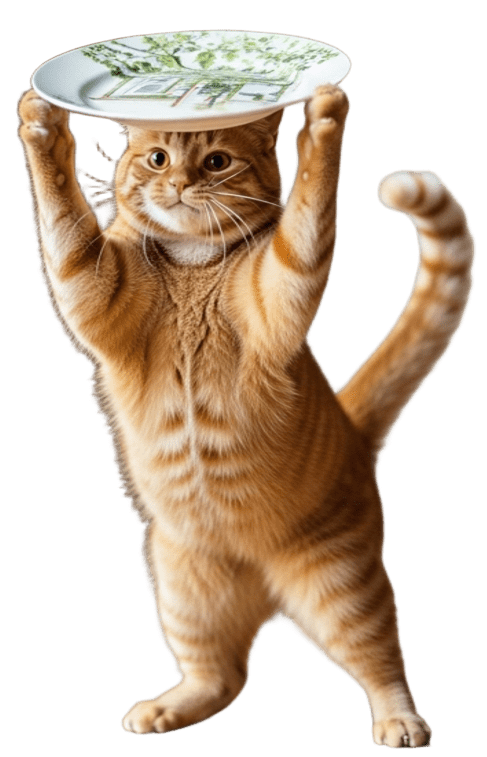
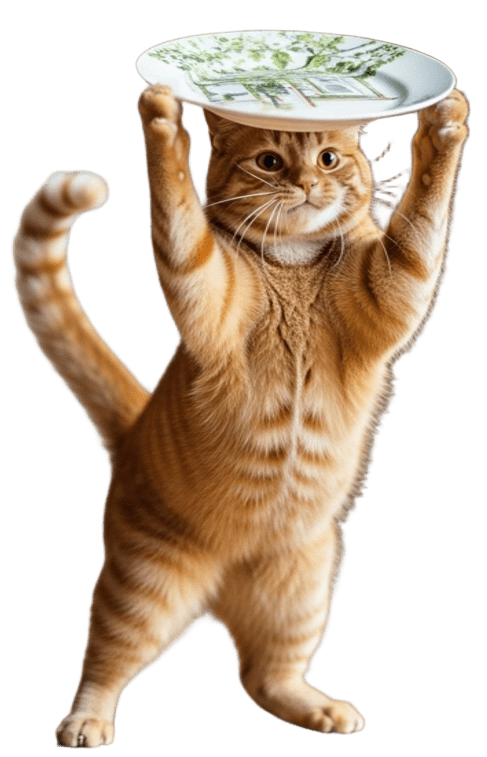
画像を左右反転

diff --git a/src/scenes/GameScene.ts b/src/scenes/GameScene.ts
@@ -132,10 +132,10 @@ export default class GameScene extends Phaser.Scene {
 
     private createCatAndPlate(): void {
         // お皿を作成（物理オブジェクトとして）
-        this.plate = this.physics.add.image(380, 370, 'plate');
+        this.plate = this.physics.add.image(410, 370, 'plate');
         this.plate.setScale(0.3); // お皿のサイズを小さく調整
         this.plate.setDepth(2); // 猫よりも前に表示（猫は1）
-        this.plate.setRotation(-0.20); // 反時計回りに20度回転（ラジアンで約0.20）
+        this.plate.setRotation(0.20); // 時計回りに20度回転（ラジアンで約0.20）
         this.plate.name = 'plate';
         
         // 猫を作成（物理オブジェクトとして）
@@ -205,8 +205,6 @@ export default class GameScene extends Phaser.Scene {
         };
         this.currentChallenge.firstSushi.setScale(0.4);
         this.currentChallenge.secondSushi.setScale(0.4);
-        this.currentChallenge.firstSushi.setFlipX(true); // 左右に反転
-        this.currentChallenge.secondSushi.setFlipX(true); // 左右に反転
         
         // 最初は非表示にする
         this.currentChallenge.firstSushi.setVisible(false);
@@ -220,7 +218,7 @@ export default class GameScene extends Phaser.Scene {
         // お手本用のお皿を作成
         const examplePlate = this.add.image(400, 180, 'plate');
         examplePlate.setScale(0.3);
-        examplePlate.setRotation(-0.20); // 反時計回りに20度回転
+        examplePlate.setRotation(0.20); // 時計回りに20度回転
         examplePlate.setDepth(-2); // 背景に表示
         this.exampleSushi.push(examplePlate);
 
@@ -229,11 +227,11 @@ export default class GameScene extends Phaser.Scene {
         this.currentChallenge.secondSushi.setVisible(true);
         
         // 1貫目（左側）
-        this.currentChallenge.firstSushi.setPosition(350, 150);
+        this.currentChallenge.firstSushi.setPosition(450, 150);
         this.exampleSushi.push(this.currentChallenge.firstSushi);
 
         // 2貫目（右側）
-        this.currentChallenge.secondSushi.setPosition(450, 150);
+        this.currentChallenge.secondSushi.setPosition(350, 150);
         this.exampleSushi.push(this.currentChallenge.secondSushi);
 
         // 1秒後に消去してゲーム開始
@@ -292,7 +290,6 @@ export default class GameScene extends Phaser.Scene {
         
         const sushi = this.physics.add.image(x, 0, `${sushiType}-sushi`) as SushiWithMetadata;
         sushi.setScale(0.32); // 皿の上の寿司と同じサイズに
-        sushi.setFlipX(true); // 左右に反転
         sushi.setDepth(5); // 猫よりも手前に表示（猫はdepth 1）
         sushi.name = 'sushi'; // 寿司に名前を設定
         
@@ -342,7 +339,6 @@ export default class GameScene extends Phaser.Scene {
         // 位置を直接設定（アニメーションなし）
         sushi.setPosition(targetX, targetY);
         sushi.setScale(0.32);
-        sushi.setFlipX(true); // 左右に反転
         
         // 表示順序を調整（1つ目の寿司と比較して奥行きを決定）
         if (this.catchedSushiArray.length === 0) {
